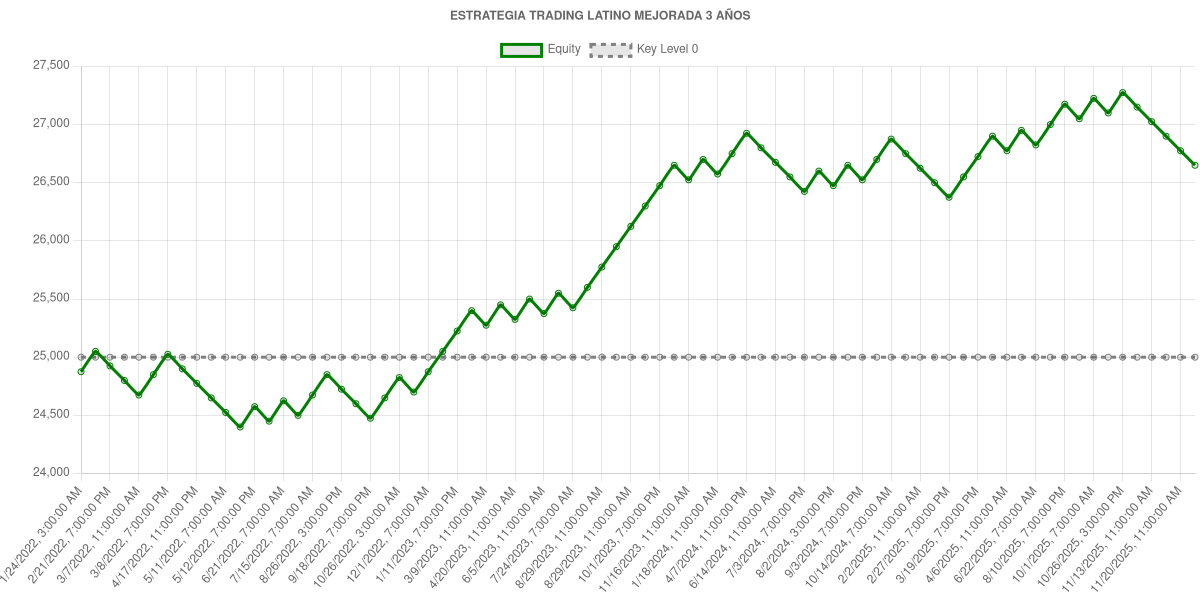
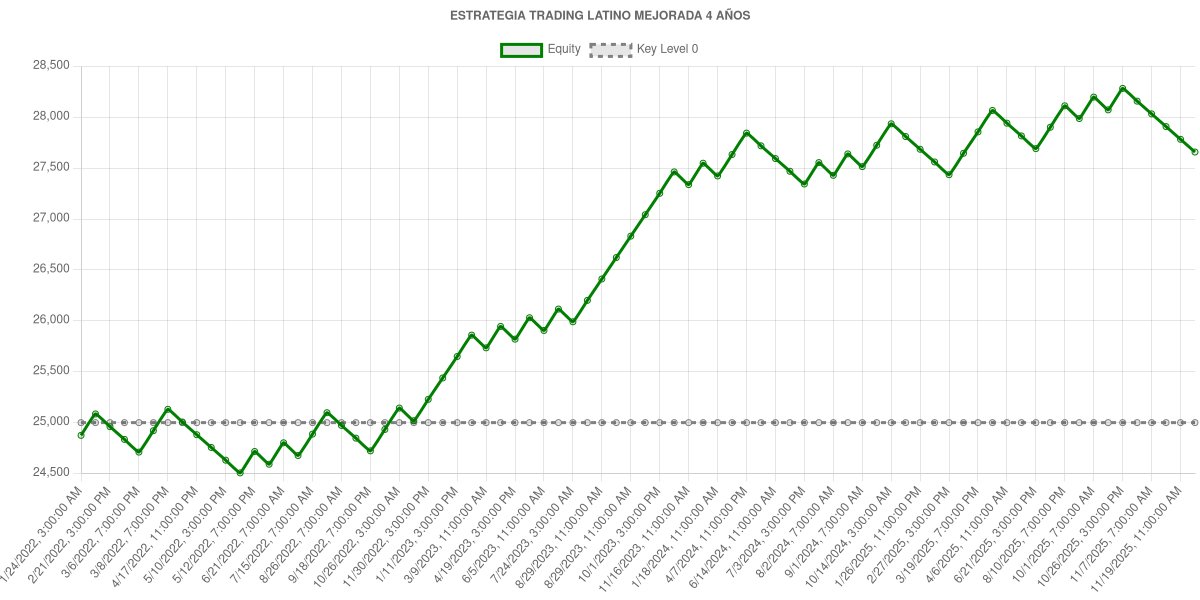
update

diff --git a/backend/service-backtest/src/index.ts b/backend/service-backtest/src/index.ts
@@ -211,6 +211,9 @@ export class Backtester {
     console.log("Wins:", wins);
     console.log("Losses:", losses);
     console.log("Average PnL per trade:", averagePnl.toFixed(2), "USD");
+    const winrate =
+      finishedOrders.length > 0 ? (wins / finishedOrders.length) * 100 : 0;
+    console.log("Winrate:", winrate.toFixed(2) + "%");
     console.log("=============================");
 
     const width = 1200;
@@ -246,7 +249,10 @@ export class Backtester {
         responsive: false,
         plugins: {
           legend: { display: true },
-          title: { display: true, text: "ESTRATEGIA TRADING LATINO MEJORADA 3 AÑOS" },
+          title: {
+            display: true,
+            text: "ESTRATEGIA TRADING LATINO MEJORADA 4 AÑOS",
+          },
         },
         scales: {
           x: { display: true },
@@ -265,8 +271,8 @@ export class Backtester {
     const riskPct = 0.5;
     const riskUsd = (this.state.account_balance * riskPct) / 100;
 
-    const tp_pct = 7;
-    const sl_pct = 5;
+    const tp_pct = 6.9;
+    const sl_pct = 4.1;
     const tp_decimal = tp_pct / 100;
     const sl_decimal = sl_pct / 100;
 
@@ -305,7 +311,7 @@ export class Backtester {
       }
 
       try {
-       // await this.sleep(500);
+        // await this.sleep(500);
 
         this.processOrders(currentCandle);
 
